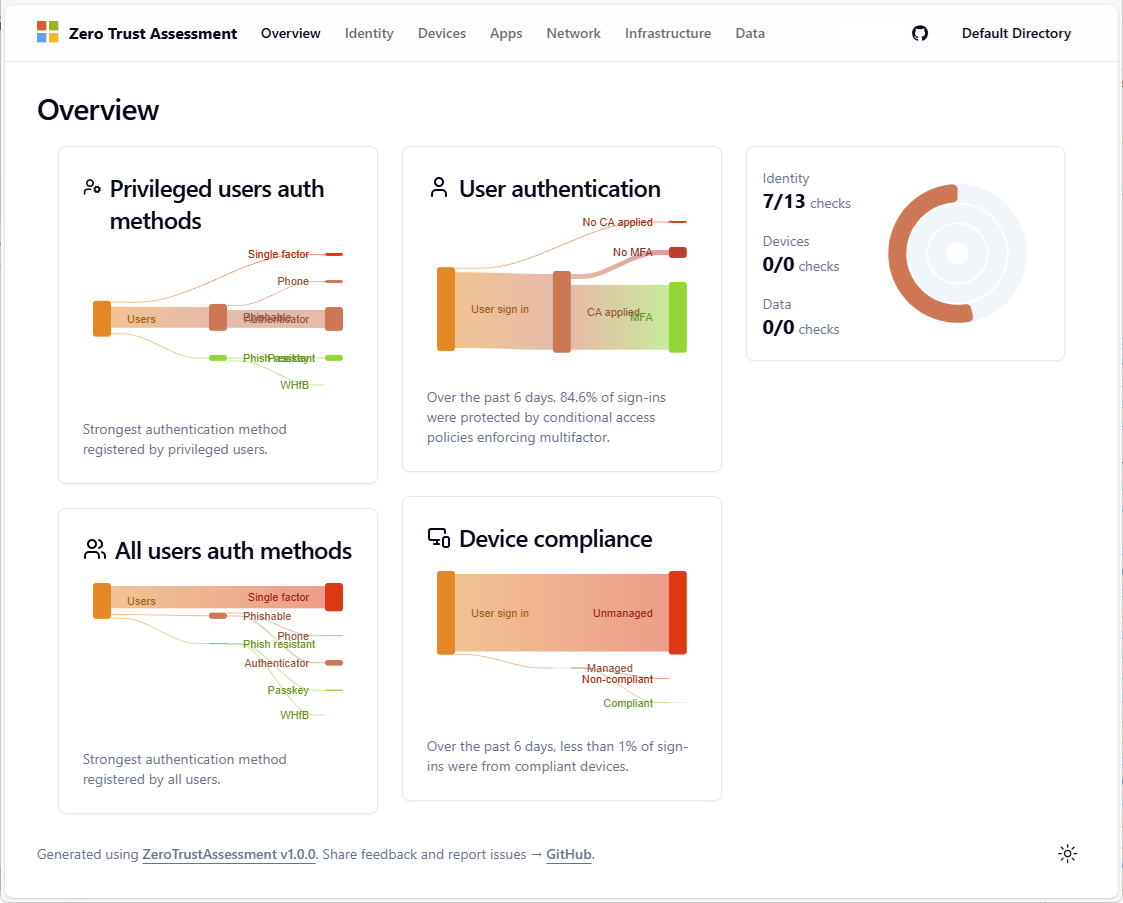
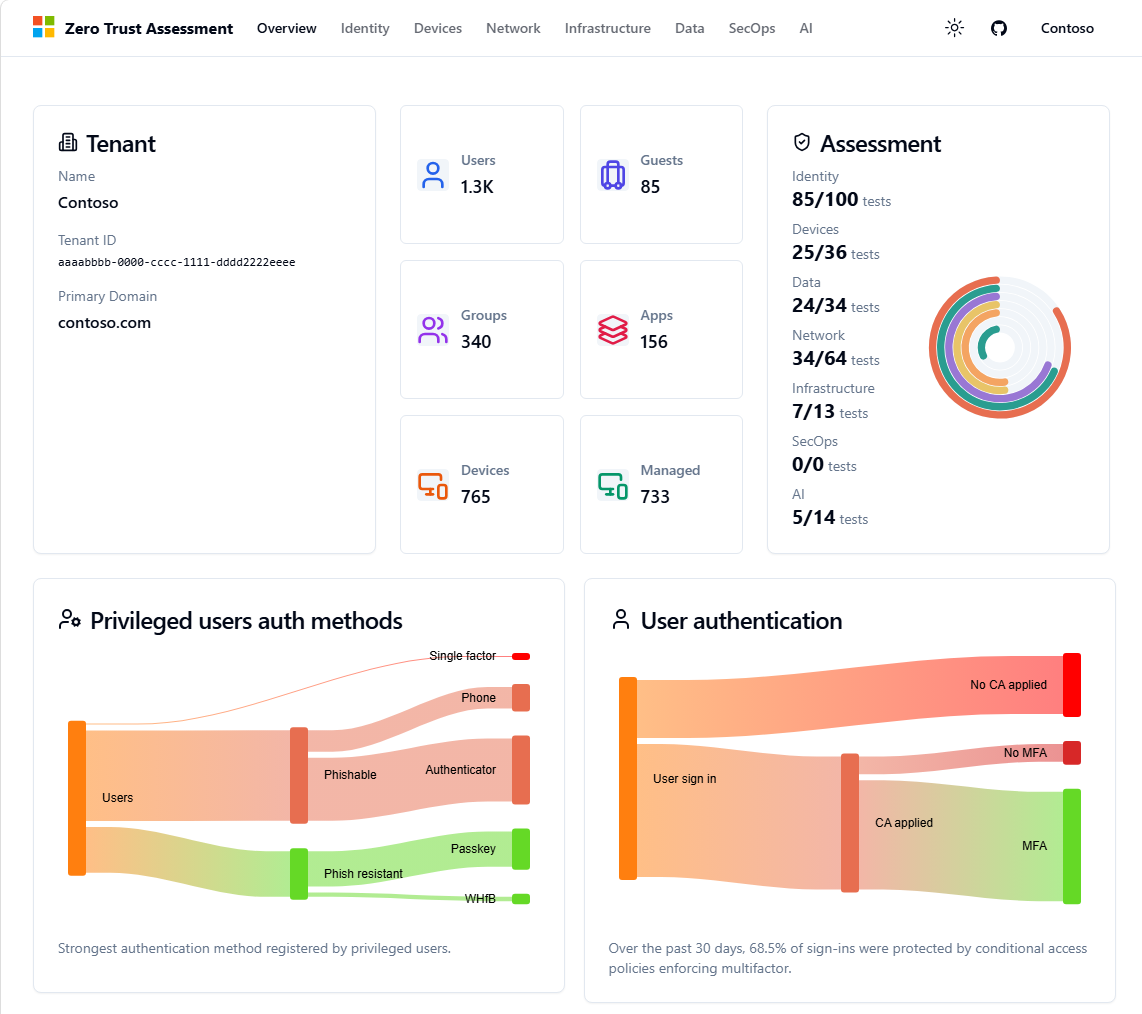
Update readme

diff --git a/src/powershell/doc/readme.md b/src/powershell/doc/readme.md
@@ -1,7 +1,5 @@
 # Microsoft Zero Trust Assessment - Preview
 
-> The shortlink to this page is: [aka.ms/zerotrust/v2/privatepreview](https://aka.ms/zerotrust/v2/privatepreview)
-
 ## About the Zero Trust Assessment tool
 
 As the security threat landscape evolves, Microsoft continues to respond and re-evaluate default tenant security settings. Based on insights, experience and learnings Microsoft will continue to change the default tenant security settings in the product over time.
@@ -12,7 +10,7 @@ Manually checking a tenant's configuration against the published guidance can be
 
 The Zero Trust Assessment module in this private preview helps customers perform an automated security assessment. This works by assessing the tenant configuration and provides guidance on how to improve the security of the tenant.
 
-_This initial release is limited to Microsoft Entra and Microsoft Intune._
+The assessment is organized into **pillars**. The **Identity**, **Devices**, **Network**, and **Data** pillars are generally available. Additional preview pillars (**Infrastructure**, **SecOps**, and **AI**) can be enabled with the `-Preview` switch. See [Preview pillars](#preview-pillars-infrastructure-secops-and-ai) for details.
 
 ## Prerequisites
 
@@ -22,6 +20,9 @@ _This initial release is limited to Microsoft Entra and Microsoft Intune._
 > PowerShell 7. Install PowerShell v7 if not already installed:
 > [Installing PowerShell on Windows - PowerShell \| Microsoft
 > Learn](https://learn.microsoft.com/en-us/powershell/scripting/install/installing-powershell-on-windows?view=powershell-7.4#installing-the-msi-package)
+
+- Windows
+  - A full assessment requires **Windows**. Two of the bundled modules — SharePoint Online (`Microsoft.Online.SharePoint.PowerShell`) and Azure Information Protection (`AipService`) — are Windows-only. On non-Windows platforms these services are skipped and the related tests do not run.
 
 - Global Administrator role
   - Note: The module supports running the assessment as a Global Reader, but the Global Administrator role is required to initially connect to Microsoft Graph and consent to permissions.
@@ -47,10 +48,46 @@ Install the `ZeroTrustAssessment` module using the following command.
 Install-PSResource -Name ZeroTrustAssessment -Scope CurrentUser
 ```
 
-## Connect to Microsoft Graph and Azure
+> **Tip:** New assessment checks and fixes are shipped in preview (prerelease) builds before they are rolled into a stable release. To get the **latest implemented checks and fixes**, install the prerelease build by adding the `-Prerelease` switch:
+>
+> ```powershell
+> Install-PSResource -Name ZeroTrustAssessment -Prerelease -Scope CurrentUser
+> ```
 
-To run this assessment, you must connect to Microsoft Graph and
-optionally to Azure. When connecting using Microsoft Graph PowerShell, the following permissions are requested. You are presented with a permissions requested page that you must consent to be able to run the assessment.
+## Bundled PowerShell modules
+
+The Zero Trust Assessment connects to several Microsoft cloud services, each of which relies on its own PowerShell module. Rather than depending on whatever versions happen to be installed on your machine, the assessment **bundles a specific, pinned version of every required module**. These bundled modules are downloaded into a private module cache the first time you connect (`%APPDATA%\ZeroTrustAssessment\Modules` on Windows) and are loaded only for the assessment.
+
+> **Important:** The Zero Trust Assessment is **validated and tested only against the exact module versions listed below**. This is why they are bundled together and isolated from your global module set. Having other (conflicting) versions of these modules installed on the same machine can cause assembly/DLL conflicts (for example `Microsoft.Identity.Client.dll`) and lead to sign-in or runtime failures. See [Recommended: use a dedicated clean VM](#recommended-use-a-dedicated-clean-vm).
+
+| Module | Version | Service | Platform |
+|--------|---------|---------|----------|
+| `PSFramework` | 1.13.419 | Logging / framework | All |
+| `Microsoft.Graph.Authentication` | 2.35.0 | Microsoft Graph | All |
+| `Microsoft.Graph.Beta.Teams` | 2.35.0 | Microsoft Graph (Teams beta) | All |
+| `Az.Accounts` | 4.0.2 | Azure | All |
+| `ExchangeOnlineManagement` | 3.9.0 | Exchange Online & Security &amp; Compliance | All |
+| `Microsoft.Online.SharePoint.PowerShell` | 16.0.26914.12004 | SharePoint Online | Windows only |
+| `AipService` | 3.0.0.1 | Azure Information Protection (Purview) | Windows only |
+
+## Connect to Microsoft 365 and Azure services
+
+Earlier versions of the assessment connected only to Microsoft Graph and Azure. The assessment now connects to **six** services so it can evaluate all pillars:
+
+| # | Service | Sign-in cmdlet used |
+|---|---------|---------------------|
+| 1 | Microsoft Graph | `Connect-MgGraph` |
+| 2 | Azure | `Connect-AzAccount` |
+| 3 | Azure Information Protection (Purview) | `Connect-AipService` |
+| 4 | SharePoint Online | `Connect-SPOService` |
+| 5 | Exchange Online | `Connect-ExchangeOnline` |
+| 6 | Security &amp; Compliance | `Connect-IPPSSession` |
+
+> **Expect multiple sign-in prompts.** Each service authenticates separately, so during `Connect-ZtAssessment` you will see **at least one sign-in prompt per service**. SharePoint Online additionally opens your **default system browser** to complete its sign-in. This is expected behavior — see the FAQ entry [Why do I get multiple sign-in prompts?](#why-do-i-get-multiple-sign-in-prompts).
+>
+> **Tip:** To make the sign-in experience smoother, we recommend running the assessment while **signed in to Windows as the same account** that runs the assessment (or adding that account as a local user on the machine). This lets the interactive and system-browser prompts reuse your existing Windows session instead of prompting repeatedly.
+
+When connecting using Microsoft Graph PowerShell, the following permissions are requested. You are presented with a permissions requested page that you must consent to be able to run the assessment.
 
 The consent prompt is only displayed if the Graph PowerShell app does not already have these permissions.
 
@@ -89,29 +126,31 @@ The consent prompt is only displayed if the Graph PowerShell app does not alread
 - SecurityIncident.Read.All
 - UserAuthenticationMethod.Read.All
 
-Run the following command to connect to Microsoft Graph and consent to the permissions using a Global Administrator account.
+Run the following command to connect to the services and consent to the permissions using a Global Administrator account. We recommend **explicitly specifying the tenant** you want to assess:
 
 ```powershell
-Connect-ZtAssessment
+Connect-ZtAssessment -Tenant <tenant>
 ```
 
-### Sign into Microsoft Graph
+The `-Tenant` parameter accepts either the **tenant ID (GUID)** or any **verified domain name** of the tenant, for example:
 
-When prompted, sign into Microsoft Graph as a Global Administrator.
+```powershell
+# Using the tenant ID (GUID)
+Connect-ZtAssessment -Tenant 00000000-0000-0000-0000-000000000000
 
-The assessment first connects to Microsoft Graph and then to Azure. A second window will open to perform the Azure sign in.
+# Using a verified domain name
+Connect-ZtAssessment -Tenant contoso.onmicrosoft.com
+```
 
-When prompted, review and accept the requested permissions.
+If you omit `-Tenant`, you are connected against a multi-tenant (`/organizations`) context and the tenant is inferred from the account you sign in with. Specifying the tenant avoids accidentally assessing the wrong tenant when your account has access to more than one.
 
-The next time you connect, you won't be required to reconsent to the permissions.
+### Sign into each service
 
-### Sign into Azure
+When prompted, sign in as a Global Administrator. Because the assessment connects to six services (Graph, Azure, Azure Information Protection, SharePoint Online, Exchange Online, and Security &amp; Compliance), **you will be prompted multiple times** - at least once per service, plus a system-browser prompt for SharePoint Online. Complete each prompt in the order it appears.
 
-When prompted, sign into Azure as a Global Administrator.
+For the Microsoft Graph consent prompt, review and accept the requested permissions. The next time you connect, you won't be required to reconsent to the permissions.
 
-The Azure sign in is required to check for export of Audit and sign in logs. If you don't have Azure, you can close the window without signing in and ignore the warning. The test that relies on Azure will be skipped.
-
-If you have multiple subscriptions, select a tenant and subscription when prompted.
+The Azure sign in is required to check for export of Audit and sign in logs. If you don't have Azure, you can close the Azure window without signing in and ignore the warning - the test that relies on Azure will be skipped. If you have multiple subscriptions, select a tenant and subscription when prompted.
 
 ## Run the assessment
 
@@ -120,11 +159,17 @@ stored locally on the desktop. We recommend storing this report securely and del
 
 After providing Administrator consent to the permissions, you can run the assessment with an account that has been assigned the **Global Reader** role.
 
-Use the following command to run the assessment.
+We recommend the following two-step flow. First connect to the specific tenant you want to assess, then run the assessment:
 
 ```powershell
+# 1. Connect to the target tenant (GUID or verified domain name)
+Connect-ZtAssessment -Tenant contoso.onmicrosoft.com
+
+# 2. Run the assessment against the connected tenant
 Invoke-ZtAssessment
 ```
+
+> `Invoke-ZtAssessment` runs against the tenant you are already connected to; it does not take a `-Tenant` parameter. Set the tenant when you call `Connect-ZtAssessment`.
 
 > The assessment may take more than 24 hours to run on large
 tenants. Please do not abort the assessment while it is running (even if warnings and errors are logged)
@@ -146,13 +191,57 @@ store the assessment report. For example, the following command produces the rep
 Invoke-ZtAssessment -Path C:\MyAssessment01
 ```
 
+### `Invoke-ZtAssessment` parameters
+
+The most commonly used parameters are described below. All parameters are optional.
+
+| Parameter | Description |
+|-----------|-------------|
+| `-Path <string>` | Folder where the report and exported data are written. Defaults to `./ZeroTrustReport` in the current directory. |
+| `-Pillar <string>` | Which pillar to assess. One of `All` (default), `Identity`, `Devices`, `Network`, `Data`, `Infrastructure`, `SecOps`, or `AI`. The last three are preview pillars and require `-Preview`. |
+| `-Preview` | Enables the preview pillars (`Infrastructure`, `SecOps`, `AI`). Without this switch only the generally available pillars run. See [Preview pillars](#preview-pillars-infrastructure-secops-and-ai). |
+| `-Resume` | Reuses the data that was already exported to `-Path` on a previous run, skipping data collection and database rebuild, and re-runs only the tests/report. Useful to regenerate the report or re-run tests without re-exporting. The pillar must match the pillar used for the original export. |
+| `-Tests <id[,id...]>` | Runs only the specified test ID(s) (exact match, no wildcards). If omitted, all tests for the selected pillar run. Example: `-Tests 21770, 21771`. |
+| `-Days <1-30>` | Number of days of sign-in logs to query (1-30, default 30). |
+| `-MaximumSignInLogQueryTime <minutes>` | Maximum time to spend querying sign-in logs (default 60; `0` = no limit). |
+| `-NoBrowser` | Suppresses automatically opening the progress dashboard and the final report in the browser. |
+| `-ShowLog` | Prints a high-level summary of log messages to the console. |
+| `-ExportLog` | Writes the log to a file. |
+| `-ConfigurationFile <path>` | Path to a JSON configuration file. Command-line parameters override values from the file. |
+| `-DisableTelemetry` | Disables telemetry collection (by default only the tenant ID is collected). |
+| `-Timeout <timespan>` | Maximum time to wait for all tests before giving up (default 24 hours). |
+| `-TestTimeout <minutes>` | Maximum time a single test may run (default 60; `0` = disabled). |
+| `-ExportThrottleLimit <n>` / `-TestThrottleLimit <n>` | Maximum number of parallel data collectors / tests (default 5 each). |
+
+### Preview pillars (Infrastructure, SecOps, and AI)
+
+By default the assessment runs only the generally available pillars: **Identity**, **Devices**, **Network**, and **Data**.
+
+The newest pillars - **Infrastructure**, **SecOps**, and **AI** - are in preview and are gated behind the `-Preview` switch. To include them, add `-Preview`:
+
+```powershell
+# Run all pillars, including the preview pillars
+Invoke-ZtAssessment -Preview
+
+# Run a single preview pillar (still requires -Preview)
+Invoke-ZtAssessment -Pillar SecOps -Preview
+```
+
+If you select a preview pillar with `-Pillar` but omit `-Preview`, the assessment stops and reminds you to add the `-Preview` switch.
+
+### Recommended: use a dedicated clean VM
+
+Because the assessment is validated against a specific, pinned set of module versions (see [Bundled PowerShell modules](#bundled-powershell-modules)), other versions of those modules already installed on your machine can cause assembly/DLL conflicts and sign-in or runtime failures.
+
+For the most reliable experience we recommend running the assessment on a **dedicated, clean Windows VM** that is used only for the Zero Trust Assessment and does **not** have any other (conflicting) versions of the required modules installed - for example, an existing installation of Microsoft Graph PowerShell, the Az modules, ExchangeOnlineManagement, SharePoint Online, or AipService. Starting from a clean machine avoids the DLL conflicts described in the FAQ and keeps the bundled, tested module versions isolated.
+
 ## Review assessment results
 
 After the assessment completes, you are redirected to the **Overview** tab of the report in your default browser. The **Overview** tab displays key Zero Trust related information about the tenant.
 
 ![Screenshot of Results](media/image5.png)
 
-The **Identity** and **Devices** tabs display the list of tests that were run against the tenant and provide recommendations on addressing the tenant configuration information.
+The **Identity**, **Devices**, **Network**, **Data** (and **Infrastructure**, **SecOps** and **AI** as _preview_) tabs display the list of tests that were run against the tenant and provide recommendations on addressing the tenant configuration information.
 
 ![Screenshot of test results](media/image6.png)
 
@@ -178,6 +267,8 @@ New-PSFSupportPackage -Path C:\AssessmentLog_2025_01_01 -Force
 Zip this folder along with the folder that was created by
 Invoke-ZtAssessment (default is `ZeroTrustAssessment`) and share it with your contact at Microsoft.
 
+> **Warning:** The troubleshooting package and the assessment output folder can contain **sensitive and personally identifiable information (PII)** about your tenant - for example, the Global Administrator account identifier (UPN) used to sign in, other user or account identifiers, tenant IDs, and configuration details. **Do not post this package publicly** (for example, on GitHub issues, forums, or social media). Share it only through a private, trusted channel directly with your Microsoft contact.
+
 ## Removing the Zero Trust assessment
 
 To remove the assessment, follow these steps.
@@ -202,8 +293,8 @@ Run the following commands to ensure all versions of the past modules are uninst
 Next restart PowerShell and follow the instructions in this page to install the latest version.
 
 ```powershell
-Uninstall-PSResource ZeroTrustAssessment -Force -AllVersions
-Uninstall-PSResource ZeroTrustAssessmentv2 -Force -AllVersions
+Uninstall-PSResource ZeroTrustAssessment -Version '*'
+Uninstall-PSResource ZeroTrustAssessmentv2 -Version '*'
 ```
 
 ### Could not load file or assembly Microsoft.Graph.Authentication
@@ -218,8 +309,8 @@ This is the order of running the cmdlets.
 
 ```powershell
 Install-PSResource Uninstall-Graph
-Uninstall-PSResource ZeroTrustAssessment -Force -AllVersions
-Uninstall-PSResource ZeroTrustAssessmentv2 -Force -AllVersions
+Uninstall-PSResource ZeroTrustAssessment -Version '*'
+Uninstall-PSResource ZeroTrustAssessmentv2 -Version '*'
 Uninstall-Graph
 ```
 Close all open PowerShell windows.
@@ -231,6 +322,44 @@ Install-PSResource ZeroTrustAssessment -Scope CurrentUser
 ```
 
 Note: The Zero Trust Assessment module will automatically install the required Graph PowerShell modules.
+
+### Why do I get multiple sign-in prompts?
+
+This is expected. The assessment connects to six separate services - Microsoft Graph, Azure, Azure Information Protection (Purview), SharePoint Online, Exchange Online, and Security &amp; Compliance - and each one authenticates independently. During `Connect-ZtAssessment` you will therefore see **at least one sign-in prompt per service**. SharePoint Online additionally opens your **default system browser** to complete its sign-in.
+
+To reduce how often you are prompted, sign in to Windows as (or add as a local user) the same account that runs the assessment, so the prompts can reuse your existing Windows session. See [Connect to Microsoft 365 and Azure services](#connect-to-microsoft-365-and-azure-services).
+
+### The HTML report shows "Unexpected Application Error! Invalid array length"
+
+Some releases (including 2.3.0 and 2.4.0) can produce a report that fails to render in the browser with an error similar to:
+
+```text
+Unexpected Application Error!
+Invalid array length
+```
+
+The data export, database, and tests complete successfully - only the rendering of the generated HTML report fails. This is a known issue tracked in the following GitHub issues:
+
+- [#1235 - ZTA 2.3.0 completes successfully but the generated HTML report crashes when rendering](https://github.com/microsoft/zerotrustassessment/issues/1235)
+- [#1272 - "Unexpected Application Error! Invalid array length" using version 2.3.0](https://github.com/microsoft/zerotrustassessment/issues/1272)
+- [#1310 - "Unexpected Application Error! Invalid array length" in HTML report](https://github.com/microsoft/zerotrustassessment/issues/1310)
+- [#1388 - Post completion of scripts, getting multiple errors and HTML error](https://github.com/microsoft/zerotrustassessment/issues/1388)
+
+The fix is included in the latest **preview (CI) build** published to the PowerShell Gallery. Install it with the `-Prerelease` switch:
+
+```powershell
+# Optional: remove the current version first
+Uninstall-PSResource ZeroTrustAssessment -Version '*'
+
+# Install the latest preview (CI) build that includes the fix
+Install-PSResource -Name ZeroTrustAssessment -Prerelease -Scope CurrentUser
+```
+
+If you already have the exported data from a previous run, you can regenerate just the report with the fixed build using the `-Resume` switch instead of re-exporting all data:
+
+```powershell
+Invoke-ZtAssessment -Path <your report path> -Resume
+```
 
 ### How can I know what the script is doing?
 